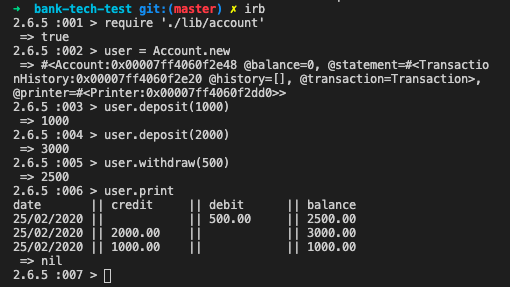
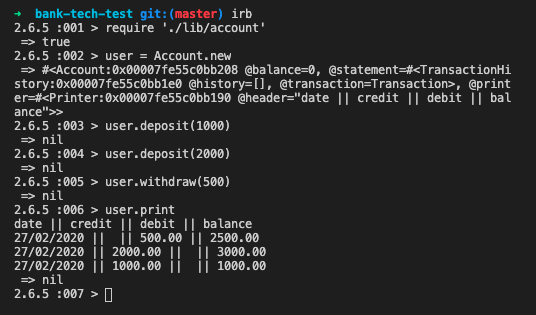
fix: remove Printer string formatting

Changed region(s): [[0.0, 0.0, 0.9706, 0.9756], [0.5588, 0.6969, 0.7059, 0.892]]

diff --git a/lib/printer.rb b/lib/printer.rb
@@ -3,11 +3,7 @@
 # Responsible of printing statements from the account
 class Printer
   def initialize
-    date = formatter('date')
-    credit = formatter('credit')
-    debit = formatter('debit')
-    balance = formatter('balance')
-    @header = "#{date} || #{credit} || #{debit} || #{balance}"
+    @header = 'date || credit || debit || balance'
   end
 
   def display_statement(history)
@@ -29,10 +25,6 @@ class Printer
   end
 
   def float_formatter(value)
-    value ? format('%<s>.2f', { s: value }).ljust(10) : ''.ljust(10)
-  end
-
-  def formatter(string)
-    string.ljust(10)
+    value ? format('%<s>.2f', { s: value }) : ''
   end
 end

diff --git a/spec/printer_spec.rb b/spec/printer_spec.rb
@@ -19,9 +19,9 @@ describe Printer do
   end
 
   it 'print a whole statement' do
-    header = "date       || credit     || debit      || balance   \n"
-    deposit_string = '24/02/2020 || 1000.00    ||            || 1000.00   '
-    withdraw_string = "24/02/2020 ||            || 500.00     || 2500.00   \n"
+    header = "date || credit || debit || balance\n"
+    deposit_string = '24/02/2020 || 1000.00 ||  || 1000.00'
+    withdraw_string = "24/02/2020 ||  || 500.00 || 2500.00\n"
     result = [header, withdraw_string, deposit_string].join('')
     history = [deposit, withdraw]
     expect(subject.display_statement(history)).to eq(result)
